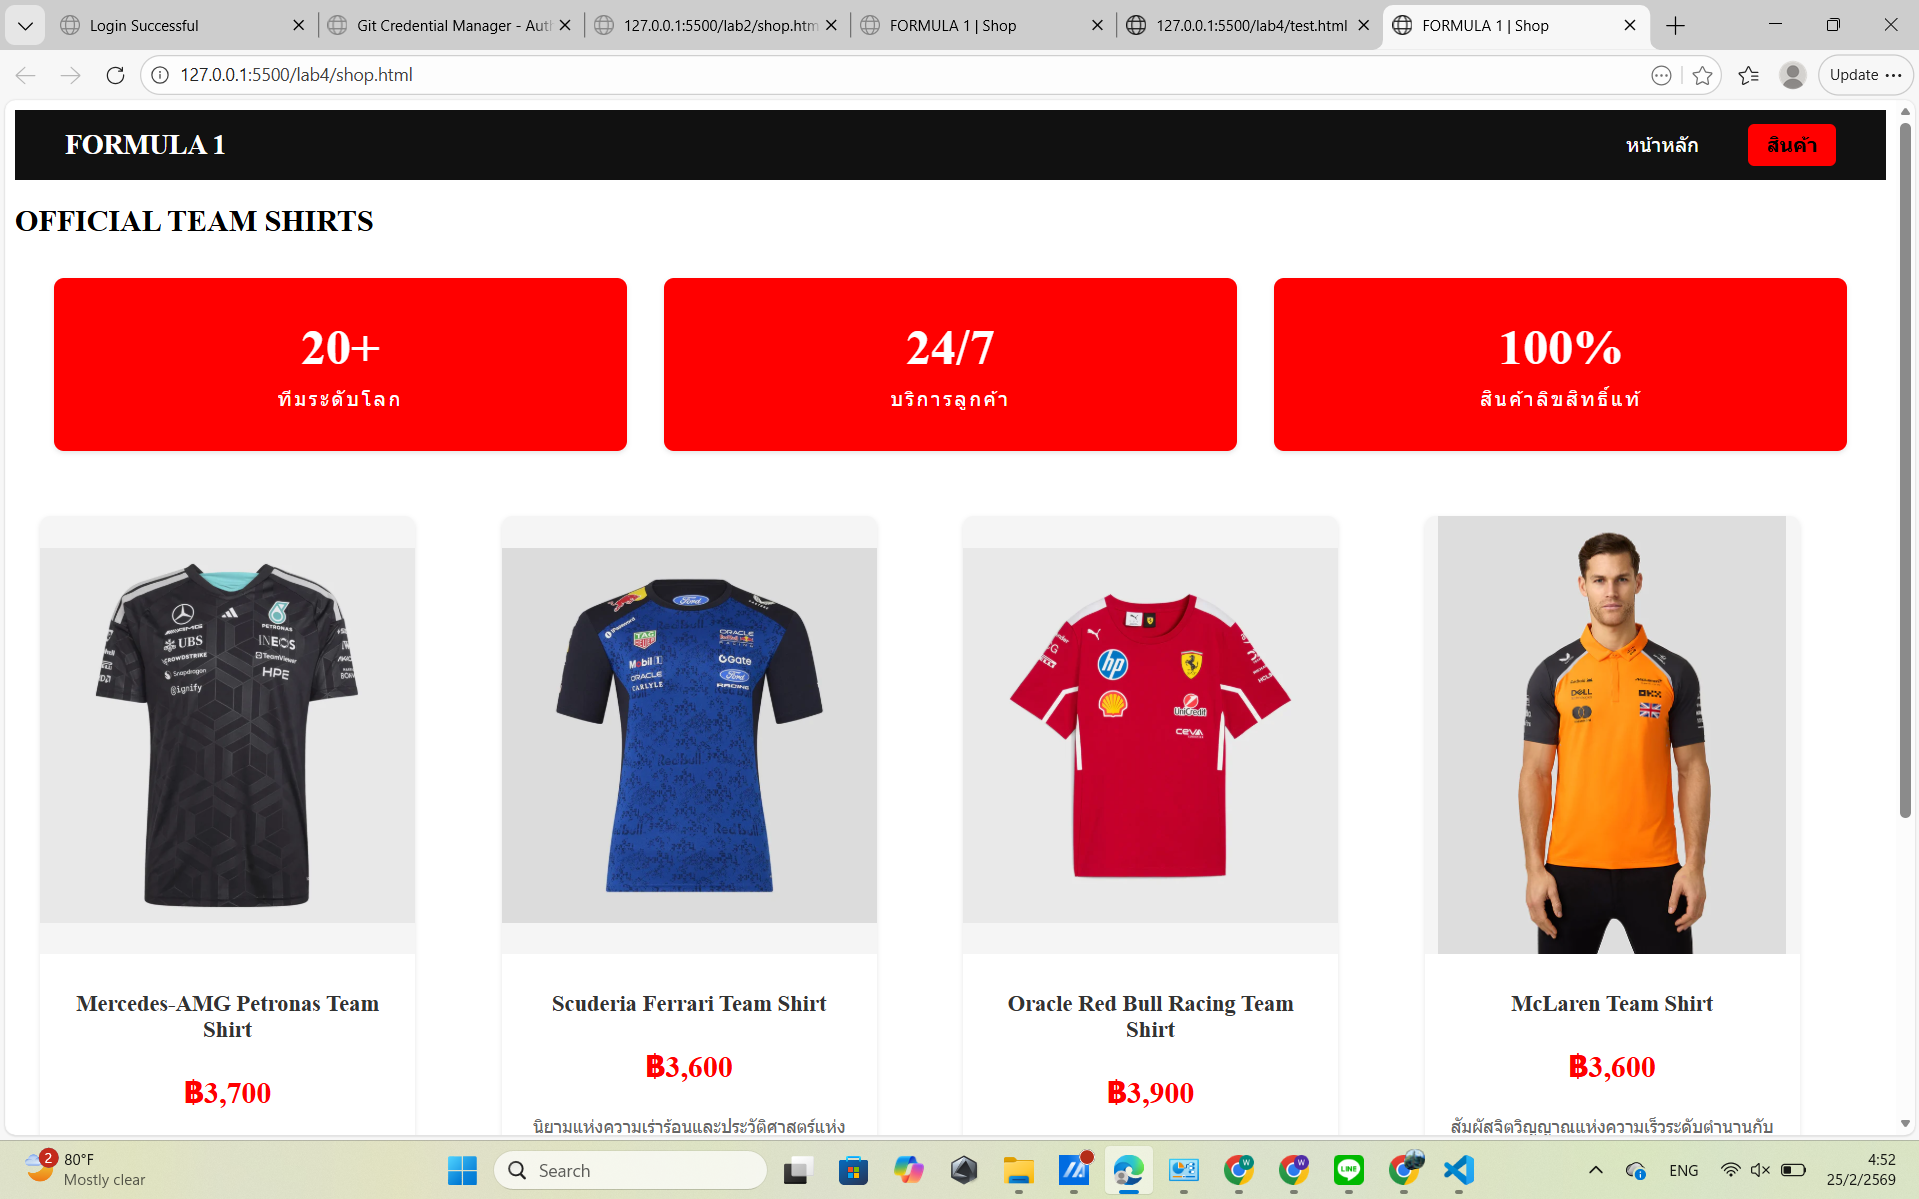
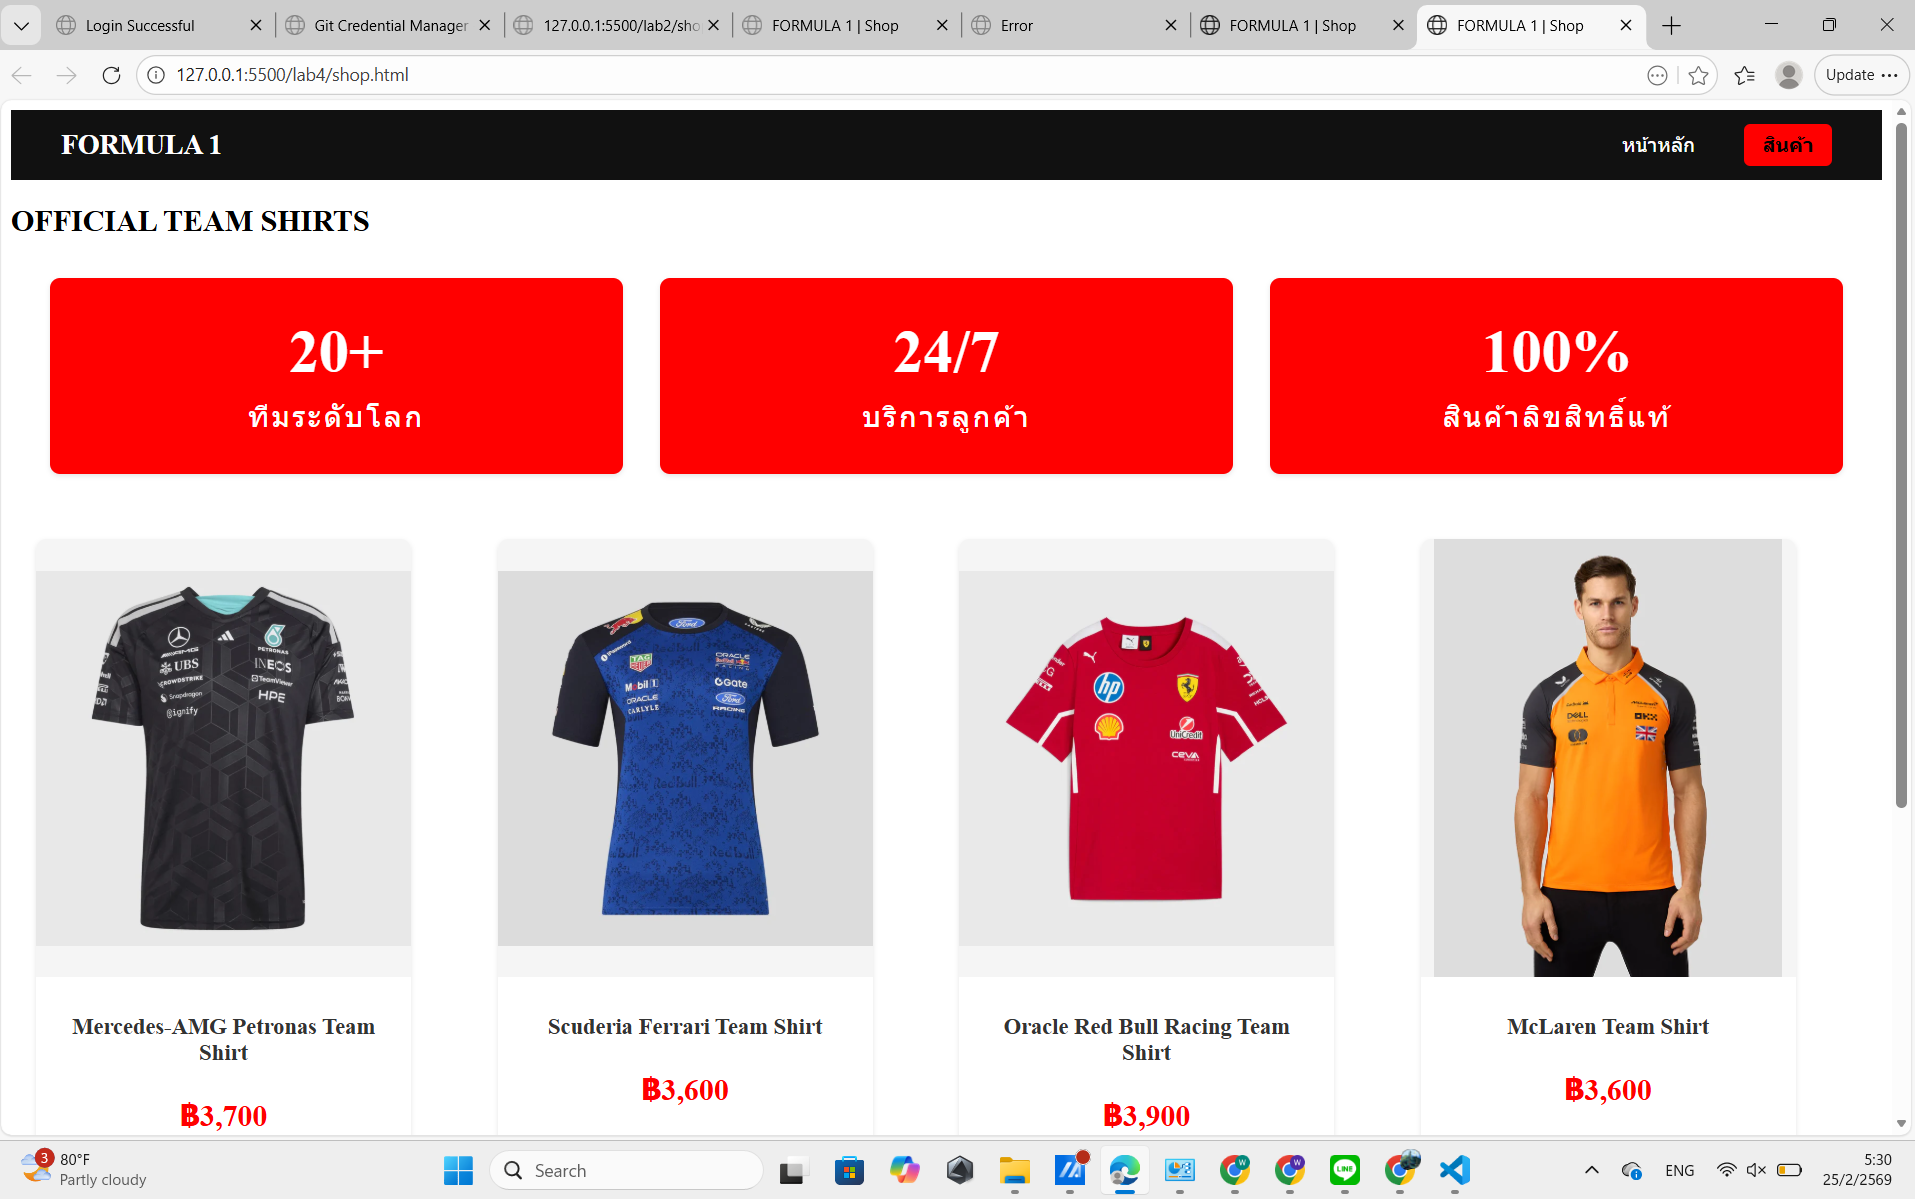
lab5 finish

diff --git a/lab5/blog.html b/lab5/blog.html
@@ -1,0 +1,38 @@
+<!DOCTYPE html>
+<html>
+<head>
+    <meta charset="UTF-8">
+    <title>BLOG</title>
+    <link rel="stylesheet" href="style.css">
+</head>
+<body>
+    <article class="blog-post">
+        <header class="post-header">
+            <h1 class="post-title">เบื้องหลังดีไซน์เสื้อทีม Formula 1</h1>
+            <div class="post-meta">โพสต์เมื่อ 25 กุมภาพันธ์ 2026 | โดย Wanitcha Jabprang</div>
+        </header>
+        
+        <div class="post-content">
+            <p>เสื้อทีม Formula 1 ไม่ได้เป็นเพียงเสื้อผ้าธรรมดา แต่เป็นสัญลักษณ์ของความภาคภูมิใจ 
+               ประวัติศาสตร์ และจิตวิญญาณของแต่ละทีมแข่งระดับโลก ทุกสี ทุกเส้นสาย 
+               และทุกรายละเอียดล้วนผ่านการออกแบบอย่างพิถีพิถัน</p>
+
+            <h2>1. สีประจำทีมที่มีความหมาย</h2>
+            <p>ตัวอย่างเช่น สีแดง Rosso Corsa ของ Ferrari สื่อถึงพลังและประวัติศาสตร์อันยาวนาน 
+               ขณะที่สีดำ-เขียวของ Mercedes-AMG สะท้อนความหรูหราและเทคโนโลยีล้ำสมัย</p>
+
+            <blockquote>
+                "เสื้อทีมไม่ใช่แค่เครื่องแต่งกาย แต่คือสัญลักษณ์ของความหลงใหลในความเร็ว"
+            </blockquote>
+
+            <h2>2. เทคโนโลยีผ้าที่ใช้ในการผลิต</h2>
+            <p> เสื้อทีม F1 ผลิตจากวัสดุคุณภาพสูงที่ระบายอากาศได้ดี น้ำหนักเบา และรองรับการเคลื่อนไหว 
+                เพื่อให้ทั้งนักแข่งและแฟน ๆ สวมใส่ได้อย่างสบายในทุกสถานการณ์</p>
+            
+            <h2>3. มากกว่าแฟชั่น คือไลฟ์สไตล์</h2>
+            <p> สำหรับแฟน Formula 1 การสวมเสื้อทีมคือการแสดงออกถึงตัวตน 
+                และการสนับสนุนทีมที่รัก ไม่ว่าจะในสนามแข่งหรือในชีวิตประจำวัน</p>
+        </div>
+    </article>
+</body>
+</html>

diff --git a/lab5/style.css b/lab5/style.css
@@ -1,0 +1,56 @@
+
+.blog-post {
+    max-width: 900px;
+    margin: 2rem auto;
+    padding: 0 1rem;
+    font-family: 'Sarabun', sans-serif;
+}
+
+.post-header {
+    text-align: center;
+    margin-bottom: 2rem;
+}
+
+.post-title {
+    font-size: 2.5rem;
+    color: red;
+    margin-bottom: 0.5rem;
+    line-height: 1.2;
+}
+
+.post-meta {
+    color: #003988;
+    font-size: 0.9rem;
+    text-transform: uppercase;
+    letter-spacing: 2px;
+}
+
+.post-content {
+    font-size: 1.1rem;
+    line-height: 1.8;
+    color: #333;
+}
+
+.post-content p {
+    margin-bottom: 1rem;
+}
+
+.post-content h2 {
+    font-size: 1.8rem;
+    color: #930000;
+    margin: 2rem 0 1rem;
+}
+
+blockquote {
+    font-style: italic;
+    border-left: 4px solid gold;
+    margin: 1.5rem 0;
+    padding-left: 1rem;
+    color: #555;
+}
+
+@media (max-width: 768px) {
+    .post-title {
+        font-size: 2rem;
+        }
+}

diff --git a/lab4/style.css b/lab4/style.css
@@ -44,14 +44,14 @@ nav a.active {
 }
 
 .stat-number {
-    font-size: 2.5rem;
+    font-size: 3rem;
     font-weight: bold;
     color: white;
     margin-bottom: 0.5rem;
 }
 
 .stat-label {
-    font-size: 1rem;
+    font-size: 1.5rem;
     color: #fffefe;
     text-transform: uppercase;
     letter-spacing: 2px;

diff --git a/css-tutorial.md b/css-tutorial.md
@@ -931,14 +931,14 @@ nav a.active {
 }
 
 .stat-number {
-    font-size: 2.5rem;
+    font-size: 3rem;
     font-weight: bold;
     color: white;
     margin-bottom: 0.5rem;
 }
 
 .stat-label {
-    font-size: 1rem;
+    font-size: 1.5rem;
     color: #fffefe;
     text-transform: uppercase;
     letter-spacing: 2px;
@@ -1131,12 +1131,104 @@ font-weight: bold;
 
 ### ผลการทดลอง
 ```html
-[วางโค้ด HTML ที่นี่]
+<!DOCTYPE html>
+<html>
+<head>
+    <meta charset="UTF-8">
+    <title>BLOG</title>
+    <link rel="stylesheet" href="style.css">
+</head>
+<body>
+    <article class="blog-post">
+        <header class="post-header">
+            <h1 class="post-title">เบื้องหลังดีไซน์เสื้อทีม Formula 1</h1>
+            <div class="post-meta">โพสต์เมื่อ 25 กุมภาพันธ์ 2026 | โดย Wanitcha Jabprang</div>
+        </header>
+        
+        <div class="post-content">
+            <p>เสื้อทีม Formula 1 ไม่ได้เป็นเพียงเสื้อผ้าธรรมดา แต่เป็นสัญลักษณ์ของความภาคภูมิใจ 
+               ประวัติศาสตร์ และจิตวิญญาณของแต่ละทีมแข่งระดับโลก ทุกสี ทุกเส้นสาย 
+               และทุกรายละเอียดล้วนผ่านการออกแบบอย่างพิถีพิถัน</p>
+
+            <h2>1. สีประจำทีมที่มีความหมาย</h2>
+            <p>ตัวอย่างเช่น สีแดง Rosso Corsa ของ Ferrari สื่อถึงพลังและประวัติศาสตร์อันยาวนาน 
+               ขณะที่สีดำ-เขียวของ Mercedes-AMG สะท้อนความหรูหราและเทคโนโลยีล้ำสมัย</p>
+
+            <blockquote>
+                "เสื้อทีมไม่ใช่แค่เครื่องแต่งกาย แต่คือสัญลักษณ์ของความหลงใหลในความเร็ว"
+            </blockquote>
+
+            <h2>2. เทคโนโลยีผ้าที่ใช้ในการผลิต</h2>
+            <p> เสื้อทีม F1 ผลิตจากวัสดุคุณภาพสูงที่ระบายอากาศได้ดี น้ำหนักเบา และรองรับการเคลื่อนไหว 
+                เพื่อให้ทั้งนักแข่งและแฟน ๆ สวมใส่ได้อย่างสบายในทุกสถานการณ์</p>
+            
+            <h2>3. มากกว่าแฟชั่น คือไลฟ์สไตล์</h2>
+            <p> สำหรับแฟน Formula 1 การสวมเสื้อทีมคือการแสดงออกถึงตัวตน 
+                และการสนับสนุนทีมที่รัก ไม่ว่าจะในสนามแข่งหรือในชีวิตประจำวัน</p>
+        </div>
+    </article>
+</body>
+</html>
 ```
 ```css
-[วางโค้ด CSS ที่นี่]
+
+.blog-post {
+    max-width: 900px;
+    margin: 2rem auto;
+    padding: 0 1rem;
+    font-family: 'Sarabun', sans-serif;
+}
+
+.post-header {
+    text-align: center;
+    margin-bottom: 2rem;
+}
+
+.post-title {
+    font-size: 2.5rem;
+    color: red;
+    margin-bottom: 0.5rem;
+    line-height: 1.2;
+}
+
+.post-meta {
+    color: #003988;
+    font-size: 0.9rem;
+    text-transform: uppercase;
+    letter-spacing: 2px;
+}
+
+.post-content {
+    font-size: 1.1rem;
+    line-height: 1.8;
+    color: #333;
+}
+
+.post-content p {
+    margin-bottom: 1rem;
+}
+
+.post-content h2 {
+    font-size: 1.8rem;
+    color: #930000;
+    margin: 2rem 0 1rem;
+}
+
+blockquote {
+    font-style: italic;
+    border-left: 4px solid gold;
+    margin: 1.5rem 0;
+    padding-left: 1rem;
+    color: #555;
+}
+
+@media (max-width: 768px) {
+    .post-title {
+        font-size: 2rem;
+        }
+}
 ```
-[บันทึกภาพหน้าจอของผลลัพธ์การทดลอง]
+![lab5](imageslab/lab5.png)
 
 [](#การทดลองที่-6-Layout-และการจัดวางอิลิเมนต์)
 ## การทดลองที่ 6: Layout และการจัดวางอิลิเมนต์
